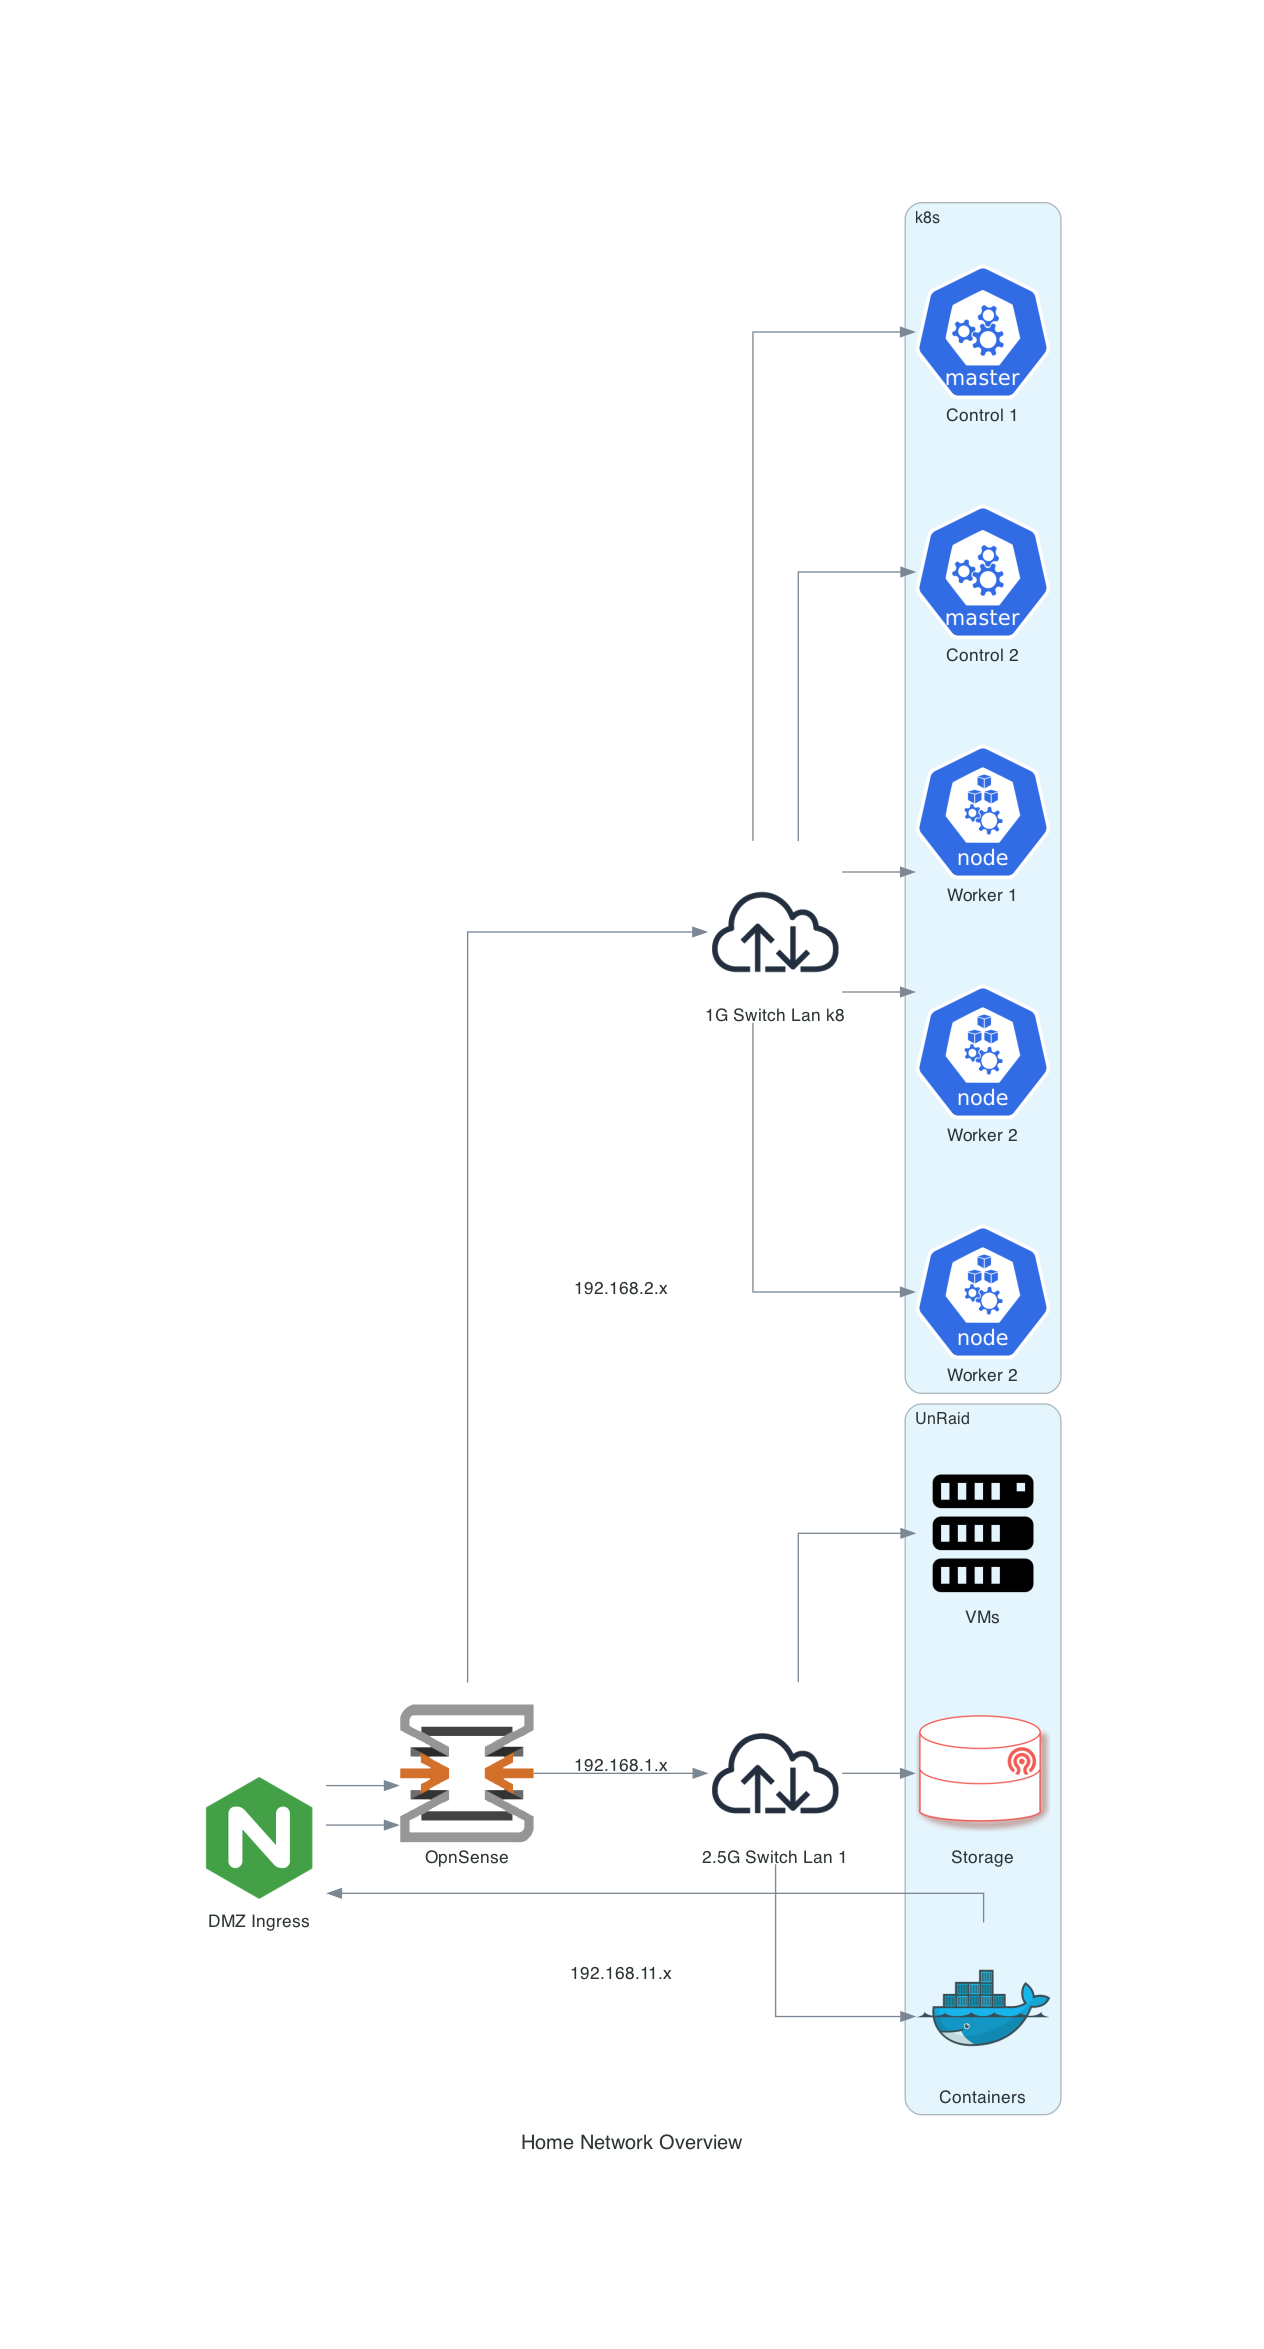
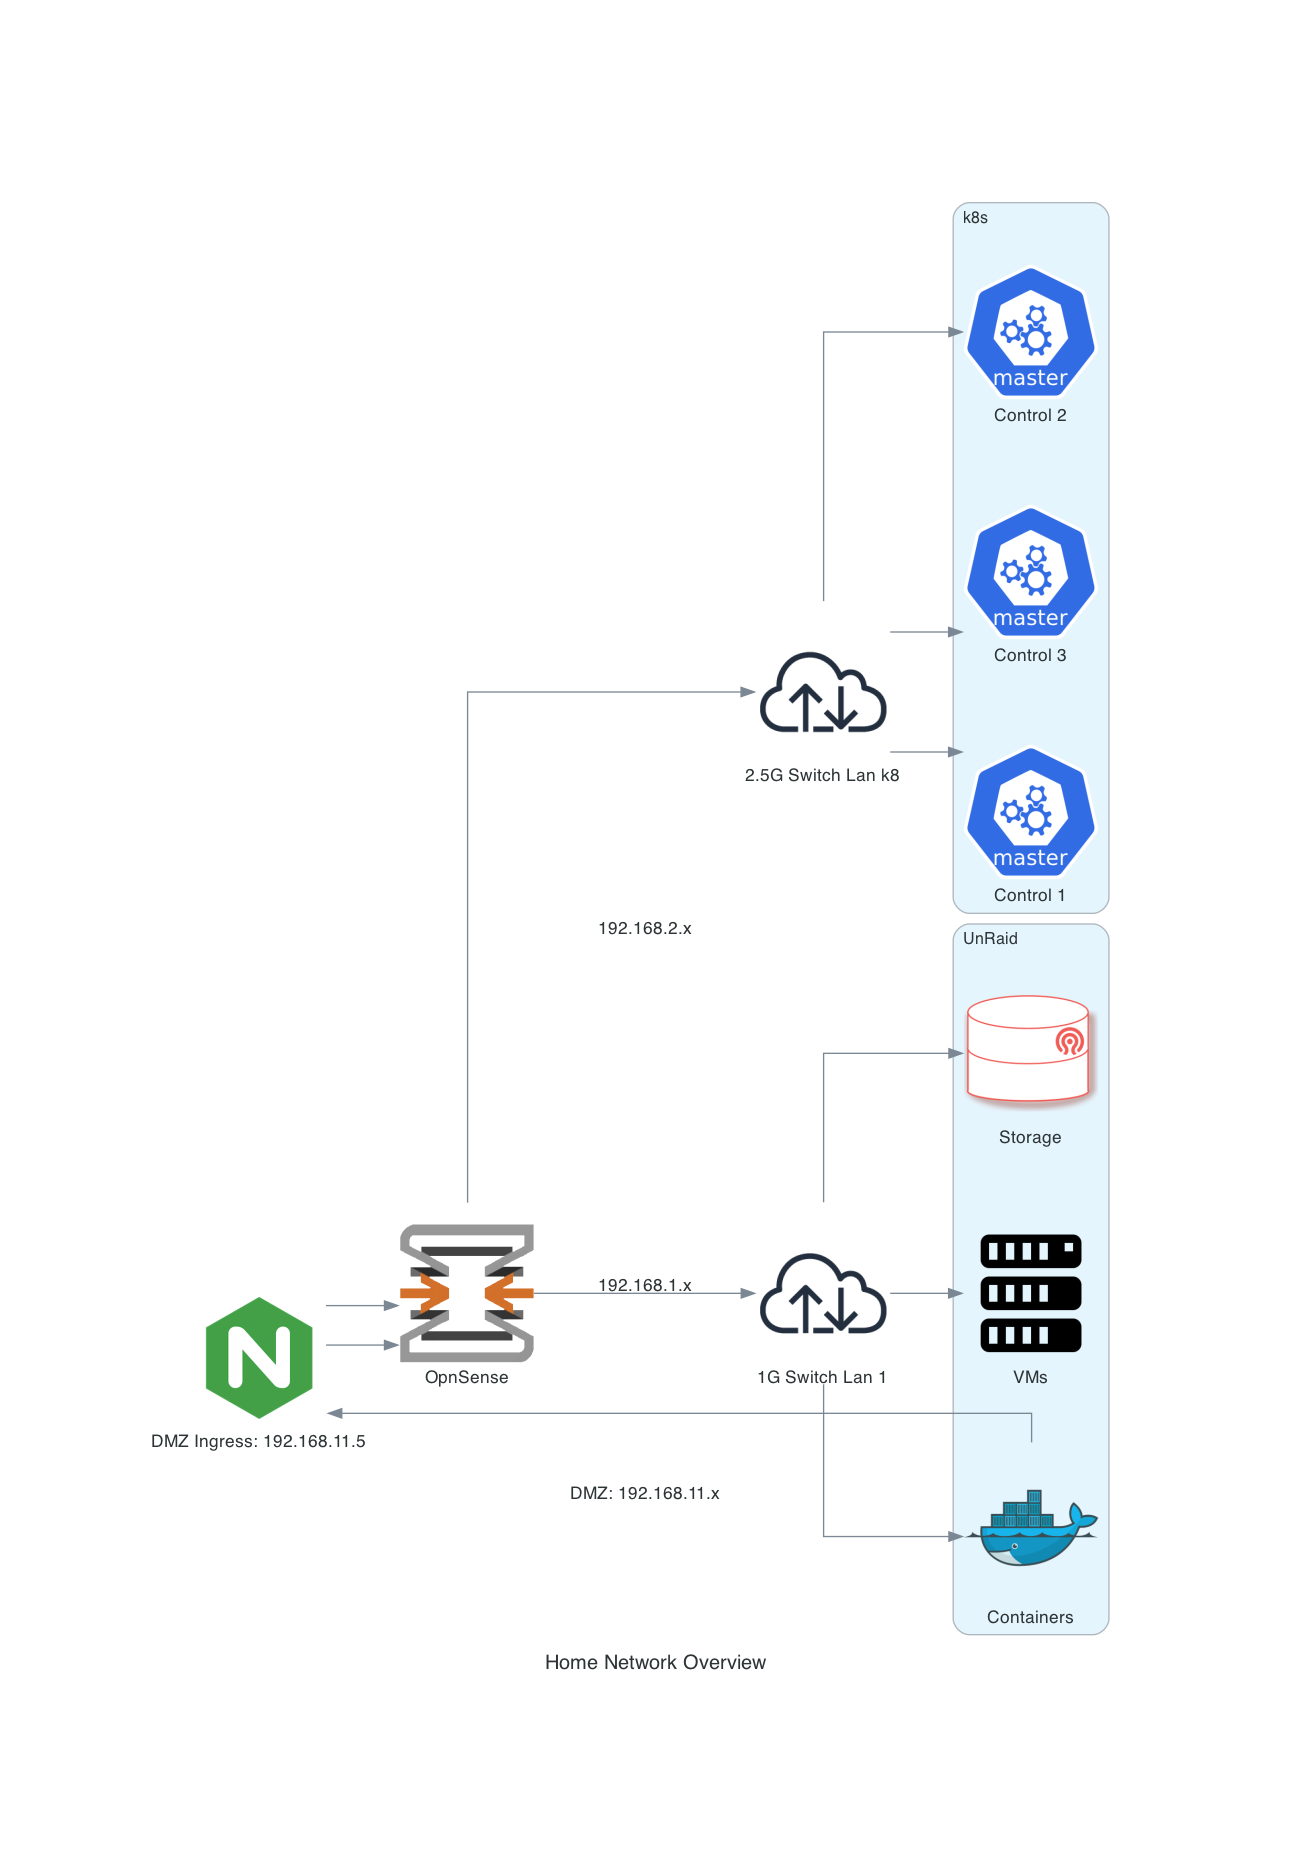
chore(diagram): Update to reflect current infra

diff --git a/diagram.py b/diagram.py
@@ -6,24 +6,24 @@ from diagrams.onprem.storage import CephOsd # type: ignore
 from diagrams.k8s.infra import Master, Node
 
 with Diagram("Home Network Overview", show=True):
-    dmz_ingress = Nginx("DMZ Ingress")
+    dmz_ingress = Nginx("DMZ Ingress: 192.168.11.5")
     opnsense = Opnsense("OpnSense")
-    multi_gig_switch = Internet("2.5G Switch Lan 1")
+    multi_gig_switch = Internet("1G Switch Lan 1")
     with Cluster("UnRaid"):
         unraid = [
             Docker("Containers"),
             CephOsd("Storage"),
             Server("VMs")]
     
-    one_gb_switch = Internet("1G Switch Lan k8")
+    one_gb_switch = Internet("2.5G Switch Lan k8")
     with Cluster("k8s"):
         k8s = [
             Master("Control 1"),
             Master("Control 2"),
-            Node("Worker 1"),
-            Node("Worker 2"),
-            Node("Worker 2")]
+            Master("Control 3"),
+        ]
+
 
     dmz_ingress >> opnsense >>  Edge(label="192.168.1.x") >> multi_gig_switch >> unraid
     dmz_ingress >> opnsense >> Edge(label="192.168.2.x") >> one_gb_switch >> k8s
-    dmz_ingress << Edge(label="192.168.11.x") << unraid[0]
+    dmz_ingress << Edge(label="DMZ: 192.168.11.x") << unraid[0]
